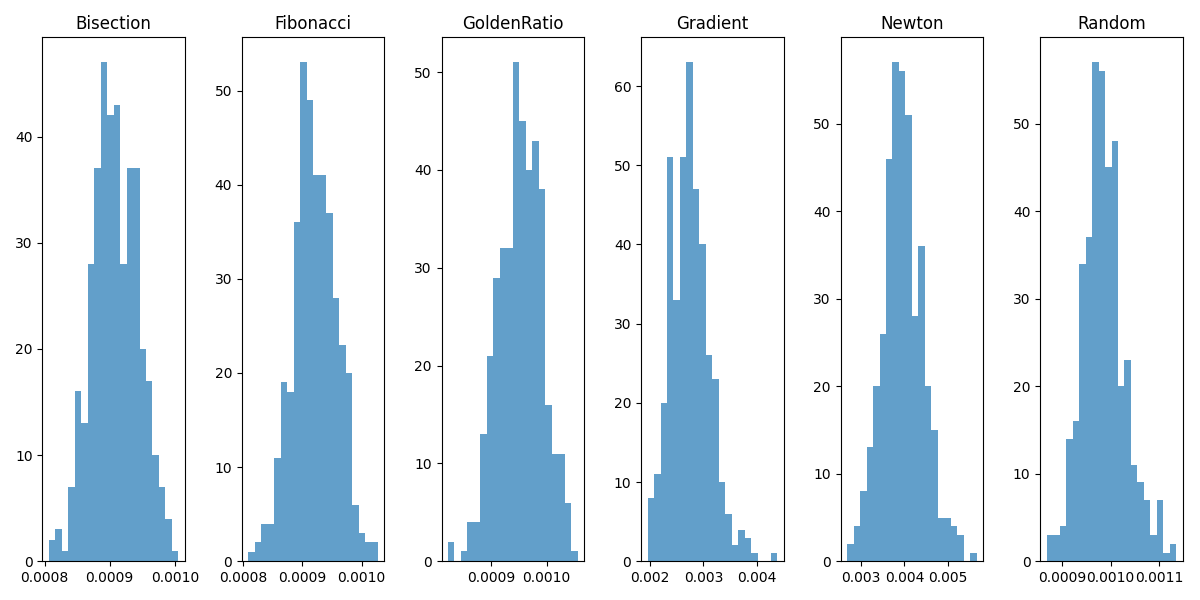
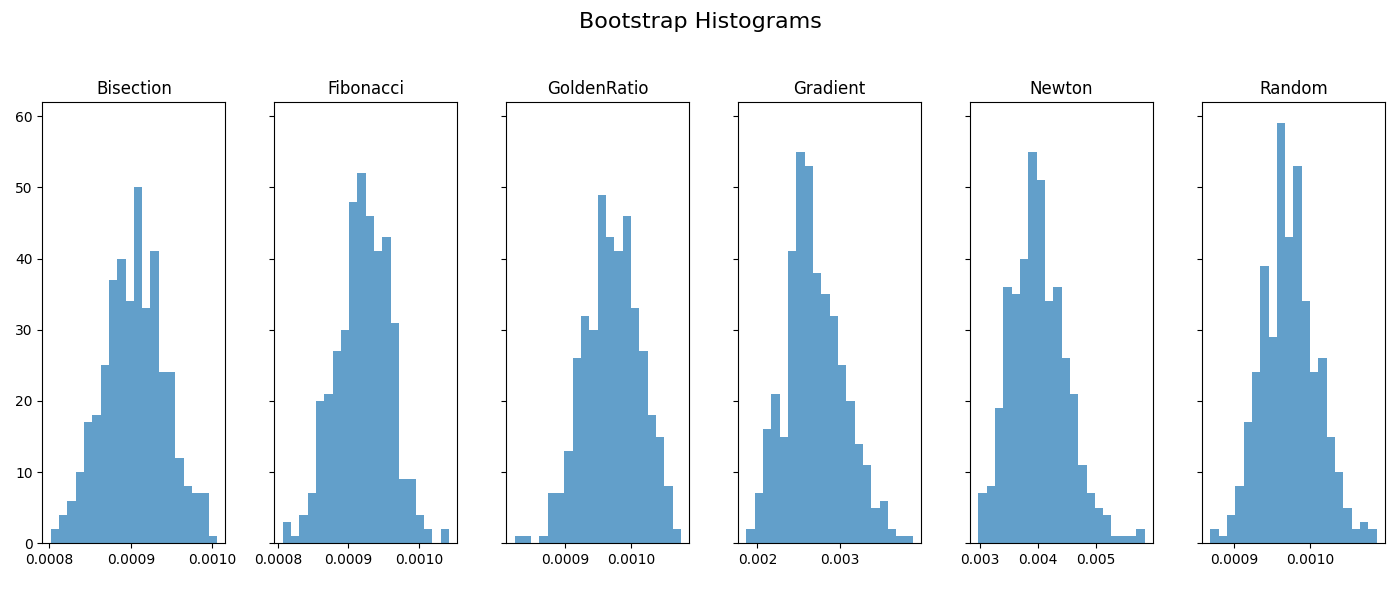
README.md update. Deleted main.py

diff --git a/Data_analysis.py b/Data_analysis.py
@@ -47,13 +47,15 @@ def create_bootstrap_dataframe(data, unique_methods):
     return bootstrap_means_df
 
 def plot_histograms(groups, unique_methods):
-    plt.figure(figsize=(12, 6))
-    for i, group_data in enumerate(groups):
-        plt.subplot(1, len(groups), i + 1)
-        plt.hist(group_data, bins=20, alpha=0.7)
-        plt.title(unique_methods[i])
-    plt.tight_layout()
-    plt.savefig('histograms.png')
+    fig, axes = plt.subplots(1, len(groups), figsize=(14, 6), sharey=True)
+    fig.suptitle("Bootstrap Histograms", fontsize=16)
+
+    for ax, group_data, method_name in zip(axes, groups, unique_methods):
+        ax.hist(group_data, bins=20, alpha=0.7)
+        ax.set_title(method_name)
+
+    plt.tight_layout(rect=[0, 0.03, 1, 0.95])
+    plt.savefig('6.png')
     plt.show()
 
 def plot_boxplots(groups, unique_methods):

diff --git a/README.md b/README.md
@@ -29,18 +29,20 @@ This file contains classes and methods for point-based optimization techniques.
   - Method: `random_search(fun_expr, x_k, tolerance, step_size, max_iterations, shrink_step)`
   - Description: Utilizes random search technique to optimize a function by randomly exploring the solution space.
 
-## main.py
+## Graph_plotting.py
+This file includes functions for reading and processing data from a CSV file, computing average times, and plotting bar charts, histograms, and boxplots.
 
-This file serves as the main entry point for running optimization methods on provided test functions.
+## multi_optimization.py
+This script performs optimization using both point and interval methods, saving the results to a CSV file. It also aggregates and saves the results in another CSV file.
 
-- **Usage**: The main function executes various optimization methods on predefined test functions and prints the results.
 
-## test.py
+## Data_analysis.py
+This file contains functions for loading and preprocessing data, performing statistical tests, bootstrapping, and plotting histograms and boxplots.
 
-This file contains test functions used to evaluate the performance of optimization methods.
 
-- **Test Functions**: Defines a set of quadratic, cubic, and quartic functions to be used for testing the optimization methods.
-- **Method Evaluation**: Iterates through the test functions and optimization methods, recording the optimal solutions, function values, iterations, and execution times.
+### test.py
+This script tests the optimization methods defined in the `PointOptimizationMethods` class.
+
 </details>
 
 <details>
@@ -48,11 +50,11 @@ This file contains test functions used to evaluate the performance of optimizati
 
 ## IntervalOptimizationMethods.py
 
-У цьому файлі містяться класи та методи для методів оптимізації інтервалу.
+Цей файл містить класи та методи для методів оптимізації інтервалу.
 
-- **Оптимізація золотого перетину**
+- **Оптимізація золотим відношенням**
   - Метод: `golden_ratio_optimization(func, a, b, tolerance)`
-  - Опис: Реалізує метод оптимізації золотого перетину для пошуку мінімуму унімодальної функції в заданому інтервалі.
+  - Опис: Реалізує метод оптимізації золотим відношенням для знаходження мінімуму унімодальної функції в заданому інтервалі.
 - **Оптимізація числами Фібоначчі**
   - Метод: `fibonacci_optimization(func, lower_bound, upper_bound, tolerance, n)`
   - Опис: Використовує метод пошуку числами Фібоначчі для поступового скорочення інтервалу пошуку функції.
@@ -62,7 +64,7 @@ This file contains test functions used to evaluate the performance of optimizati
 
 ## PointOptimizationMethods.py
 
-У цьому файлі містяться класи та методи для точкових методів оптимізації.
+Цей файл містить класи та методи для точкових методів оптимізації.
 
 - **Метод Ньютона**
   - Метод: `newtons_method(f, x_k, precision, max_iterations)`
@@ -74,17 +76,18 @@ This file contains test functions used to evaluate the performance of optimizati
   - Метод: `random_search(fun_expr, x_k, tolerance, step_size, max_iterations, shrink_step)`
   - Опис: Використовує випадковий пошук для оптимізації функції шляхом випадкового дослідження простору рішень.
 
-## main.py
+## Graph_plotting.py
+Цей файл включає функції для читання та обробки даних з файлу CSV, обчислення середніх часів та побудови стовпчикових діаграм, гістограм та бокс-плотів.
 
-Цей файл служить основним точкою входу для запуску методів оптимізації на заданих тестових функціях.
+## multi_optimization.py
+Цей скрипт виконує оптимізацію за допомогою як точкових, так і інтервальних методів, зберігаючи результати у файлі CSV. Також результати агрегуються та зберігаються у іншому файлі CSV.
 
-- **Використання**: Головна функція виконує різні методи оптимізації на заданих тестових функціях та виводить результати.
 
-## test.py
+## Data_analysis.py
+Цей файл містить функції для завантаження та передобробки даних, виконання статистичних тестів, бутстрепу та побудови гістограм та бокс-плотів.
 
-У цьому файлі містяться тестові функції, які використовуються для оцінки продуктивності методів оптимізації.
 
-- **Тестові функції**: Визначає набір квадратних, кубічних та квартичних функцій для тестування методів оптимізації.
-- **Оцінка методів**: Ітерується через тестові функції та методи оптимізації, записуючи оптимальні рішення, значення функцій, ітерації та час виконання.
+### test.py
+У цьому скрипті проводяться тести методів оптимізації, визначених у класі `PointOptimizationMethods`.
 
 </details>
